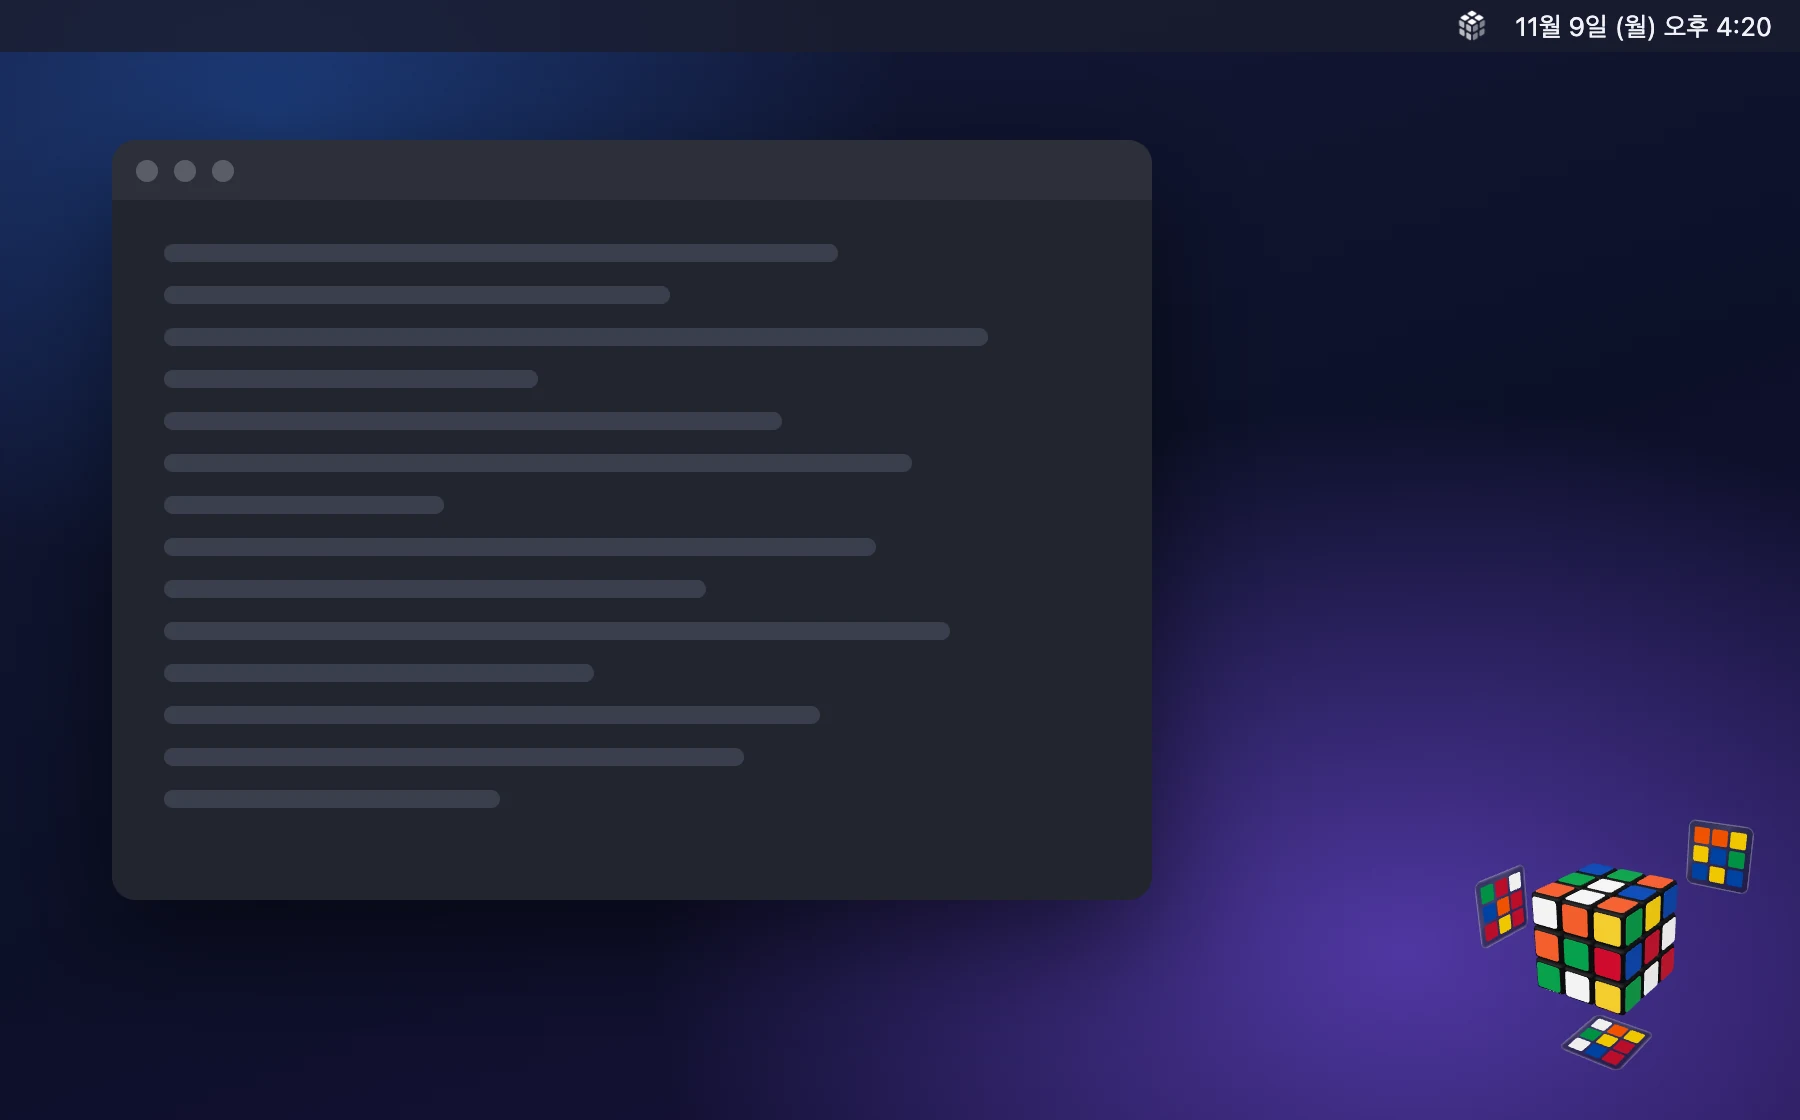
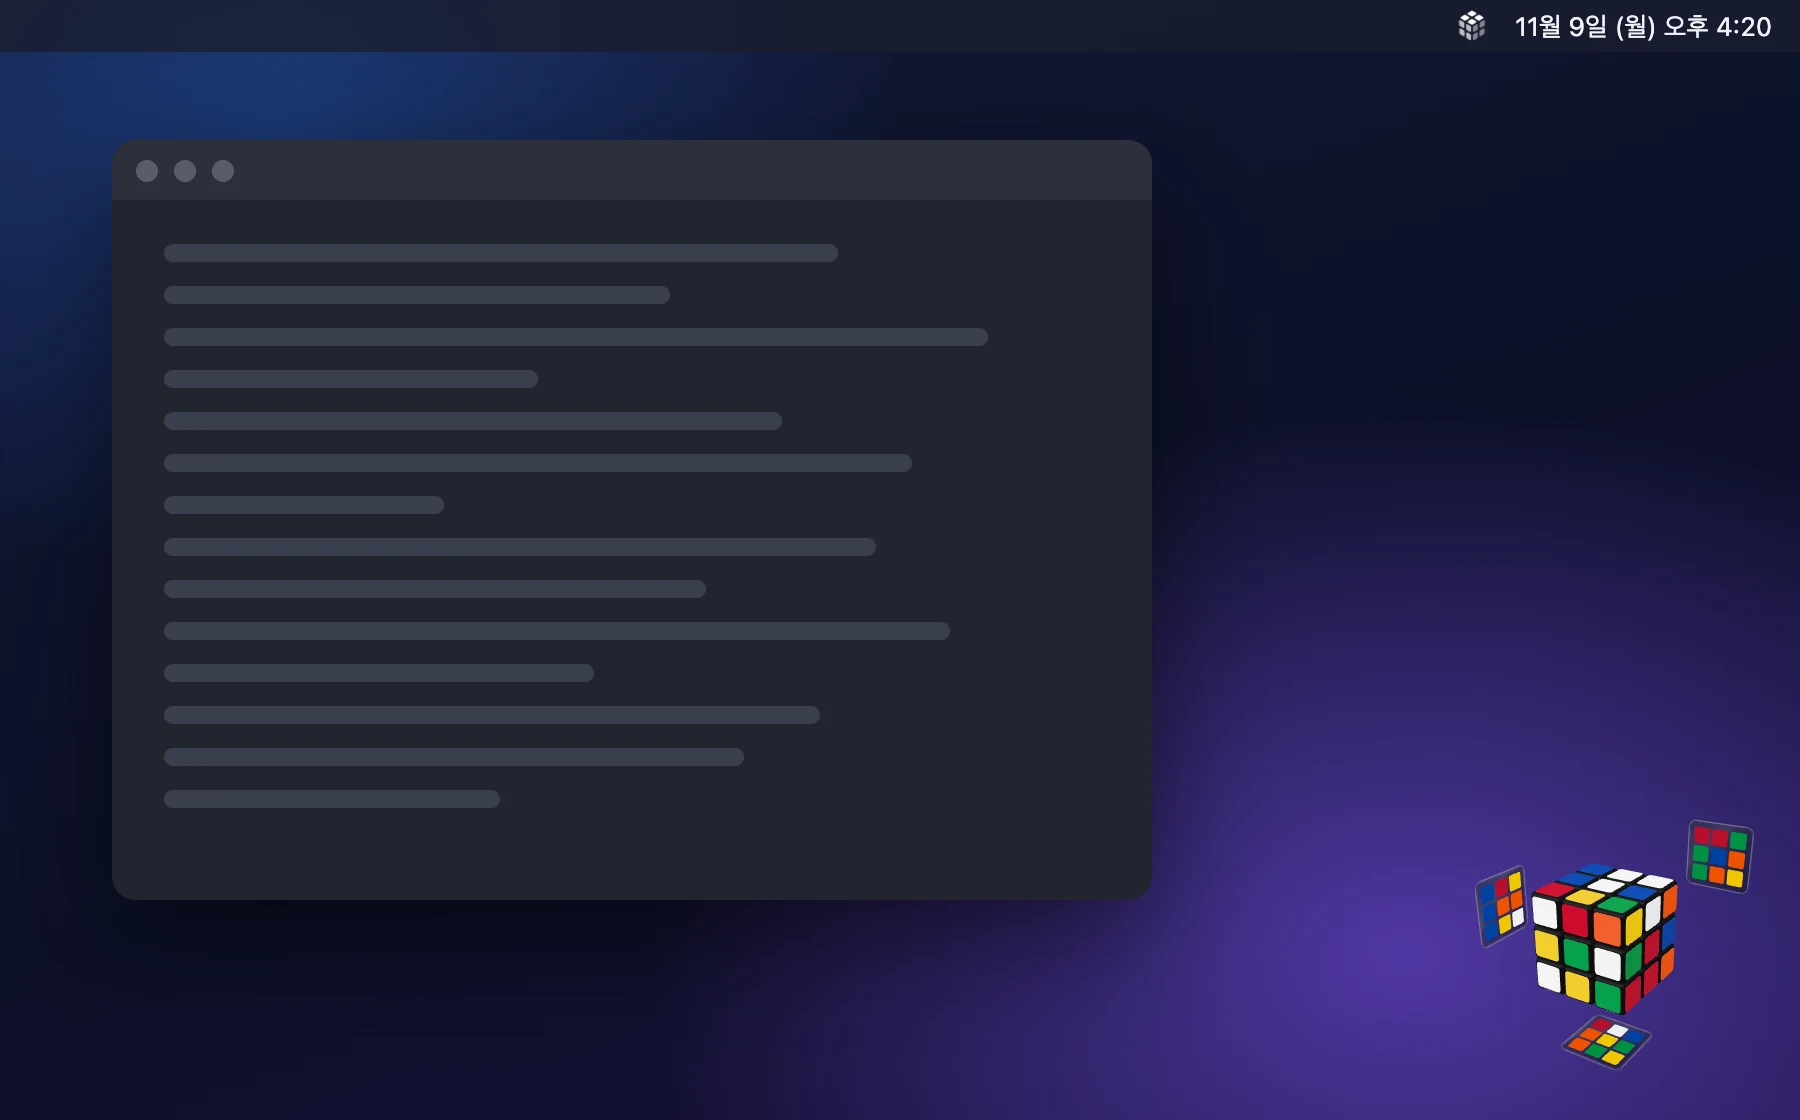
Cubie README 그림 다시 찍기: 기록 창 엠블럼, 메뉴 프로필 칸
- desktop-records: 기록 창 티어 칸에 엠블럼이 보이게 다시 찍음(다른 그림도 같은 스크립트로 새로 찍힘)
- desktop-menu(새 그림): 메뉴 막대 메뉴 맨 위 프로필 칸. 칸은 앱의 ProfileMenuView를
  scripts/profile-menu-shot.swift와 함께 컴파일해 그리고, 엠블럼은 웹이 앱에 보낸 PNG 그대로
- readme-shots: 다 맞춘 축하가 사라진 뒤 찍고, 익명 이름을 그림마다 같게 둔다
- 엠블럼 PNG: 숨긴 빛 띠·블럭 번쩍임을 범위에서 빼 여백 없이 칸을 채운다

Changed region(s): [[0.8089, 0.7188, 0.9956, 0.9688]]

diff --git a/apps/cubie/scripts/profile-menu-shot.swift b/apps/cubie/scripts/profile-menu-shot.swift
@@ -1,0 +1,56 @@
+// README 그림용: 메뉴 막대 메뉴 맨 위 프로필 칸을 앱을 띄우지 않고 그린다(readme-shots.mjs가 부른다).
+// 프로필 칸은 앱의 `ProfileMenuView`를 그대로 쓰고, 그 아래 메뉴 몇 줄과 메뉴 바탕은 흉내다(실제 메뉴 창이 아니다).
+// readme-shots.mjs가 `Sources/CubieCore/Profile.swift`, `Sources/Cubie/ProfileMenuView.swift`(import CubieCore 줄을 뺀 것)와
+// 함께 컴파일한다. 인자: <엠블럼 PNG> <이름> <티어 글> <출력 PNG> <dark|light>
+import AppKit
+
+let a = CommandLine.arguments
+guard a.count == 6 else {
+  FileHandle.standardError.write("인자: <엠블럼 PNG> <이름> <티어 글> <출력 PNG> <dark|light>\n".data(using: .utf8)!)
+  exit(2)
+}
+let dark = a[5] == "dark"
+let profile = Profile(name: a[2], tierText: a[3], emblem: try? Data(contentsOf: URL(fileURLWithPath: a[1])))
+let appearance = NSAppearance(named: dark ? .darkAqua : .aqua)!
+let view = ProfileMenuView(profile: profile) {}
+let w = view.frame.width
+let rowH: CGFloat = 22
+let rows = ["큐브로 가기", "숨기기", nil, "섞기", "공식 보기", "큐브 크기"]
+let H = 6 + ProfileMenuView.height + 11 + rows.reduce(0) { $0 + ($1 == nil ? 11 : rowH) } + 6
+let root = NSView(frame: NSRect(x: 0, y: 0, width: w, height: H))
+root.appearance = appearance
+root.wantsLayer = true
+root.layer?.backgroundColor = (dark ? NSColor(white: 0.17, alpha: 0.97) : NSColor(white: 0.95, alpha: 0.97)).cgColor
+root.layer?.cornerRadius = 8
+view.frame.origin = NSPoint(x: 0, y: H - 6 - ProfileMenuView.height)
+root.addSubview(view)
+
+func separator(at y: CGFloat) {
+  let sep = NSBox(frame: NSRect(x: 12, y: y, width: w - 24, height: 1))
+  sep.boxType = .separator
+  root.addSubview(sep)
+}
+var y = view.frame.minY - 6
+separator(at: y)
+y -= 5
+for r in rows {
+  guard let r else {
+    y -= 5
+    separator(at: y)
+    y -= 6
+    continue
+  }
+  y -= rowH
+  let l = NSTextField(labelWithString: r)
+  l.font = .menuFont(ofSize: 13)
+  l.frame = NSRect(x: 22, y: y + 3, width: w - 30, height: 17)
+  root.addSubview(l)
+}
+
+let scale: CGFloat = 2
+let rep = NSBitmapImageRep(
+  bitmapDataPlanes: nil, pixelsWide: Int(w * scale), pixelsHigh: Int(H * scale), bitsPerSample: 8, samplesPerPixel: 4,
+  hasAlpha: true, isPlanar: false, colorSpaceName: .deviceRGB, bytesPerRow: 0, bitsPerPixel: 0)!
+rep.size = root.bounds.size
+appearance.performAsCurrentDrawingAppearance { root.cacheDisplay(in: root.bounds, to: rep) }
+try rep.representation(using: .png, properties: [:])!.write(to: URL(fileURLWithPath: a[4]))

diff --git a/apps/web/src/cube/tiers/emblemImage.ts b/apps/web/src/cube/tiers/emblemImage.ts
@@ -39,12 +39,21 @@ export async function emblemPng(
   const svg = host.querySelector("svg");
   if (!svg) return null;
   const vb = svg.viewBox.baseVal;
+  // 빛 띠·블럭 번쩍임은 그림에서 숨기니 범위에서도 뺀다(빛 띠는 큐브보다 훨씬 길어 그대로 재면 여백이 커진다)
+  const hidden = [
+    ...svg.querySelectorAll<SVGElement>(".emb-band, .emb-blocks"),
+  ];
+  const before = hidden.map((el) => el.style.display);
+  for (const el of hidden) el.style.display = "none";
   let drawn: DOMRect | null = null;
   try {
     drawn = svg.getBBox();
   } catch {
     drawn = null;
   }
+  hidden.forEach((el, i) => {
+    el.style.display = before[i] ?? "";
+  });
   const [x, y, w, h] = unionBox(
     { x: vb.x, y: vb.y, width: vb.width, height: vb.height },
     drawn,

diff --git a/apps/cubie/README.md b/apps/cubie/README.md
@@ -59,6 +59,14 @@
     <td align="center">기록과 티어</td>
     <td align="center">지난 판 다시 보기</td>
   </tr>
+  <tr>
+    <td><img src="docs/desktop-menu.webp" alt="메뉴 막대 메뉴 맨 위 프로필 칸: 익명 큐버 이름, 3×3 티어 글과 엠블럼"></td>
+    <td></td>
+  </tr>
+  <tr>
+    <td align="center">메뉴 맨 위 프로필</td>
+    <td></td>
+  </tr>
 </table>
 
 ## 설치
